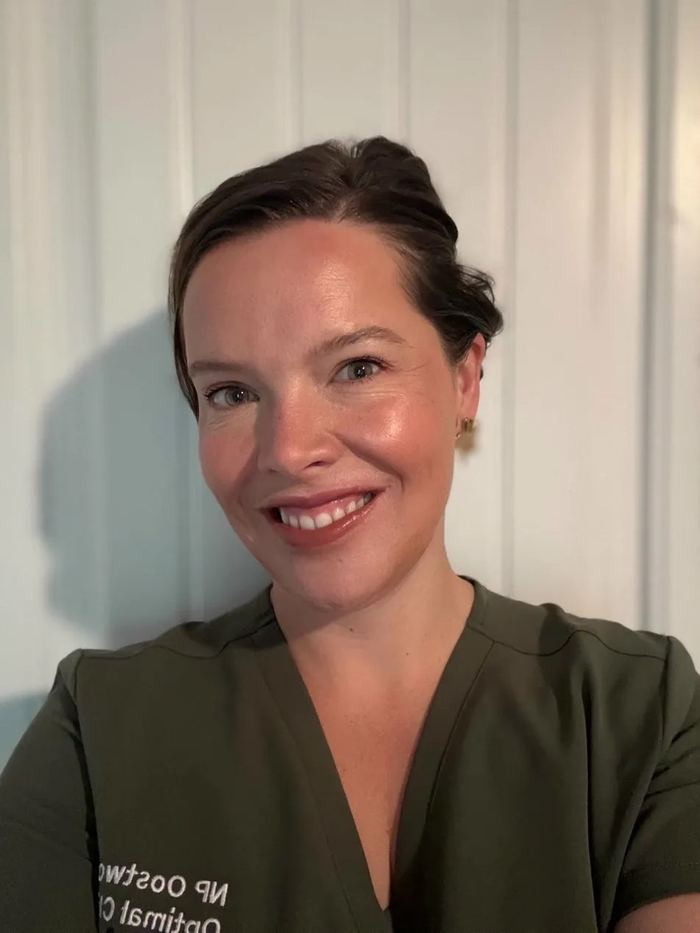
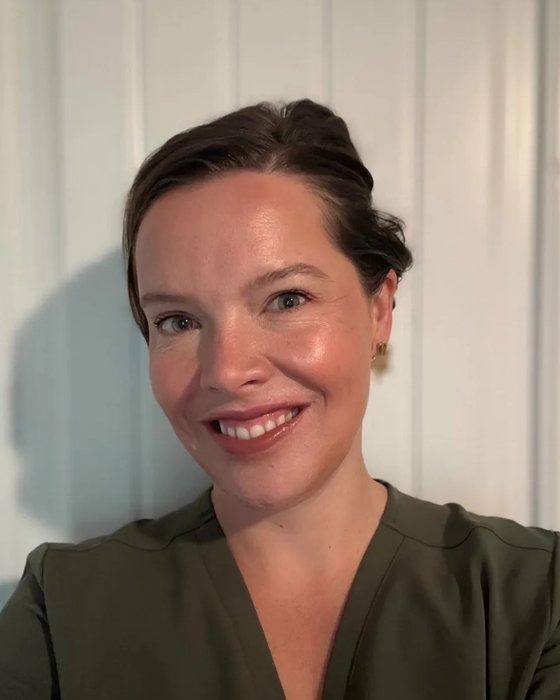
Team slide mirrored full-bleed redesign; timeline drawn as a time track
Design-panel synthesis (3 specs + judge) implemented:

- Team slide: two mirrored 820x450 cards, identical 360x450 (4:5) photos
  full-bleed to each card's outer edge, card height locked to the photo
  (zero dead space by construction), forest rule accent, check bullets.
  Chantelle's photo reframed per supplied crop; both crops now identical.
- Bloodwork timing: pill/card row replaced with a single semi-proportional
  time track (day 0 -> week 8): check node, shaded "sweet spot" window
  that scales open, clock node at week 2, gradient drain forest->amber,
  week ticks, $-node with soft pulse ring and continuation arrowhead,
  alternating labels with numerically verified clearances. Choreographed
  like the routing slide via the shared fl-* replay hooks; at rest fully
  drawn for print/export; reduced-motion covered.
- Benefits slide feature card now uses the real clinic waiting-area photo
  (replacing the stock interior).

Verified: no console errors, 18-page export with timeline at rest.

diff --git a/index.html b/index.html
@@ -743,7 +743,7 @@
   .s7 .benefits-grid { display: grid; grid-template-columns: 1.05fr 1fr 1fr; gap: 20px; margin-top: 26px; }
   .s7 .b-feature {
     grid-row: span 3;
-    background-image: url('assets/images/portrait-circle-1.png');
+    background-image: url('assets/images/clinic-waiting.jpg');
     background-size: cover; background-position: center;
     border-radius: 8px;
     position: relative; overflow: hidden;
@@ -1173,49 +1173,41 @@
     .shmap .hormone-map-svg path { animation-duration: 0.01s; animation-delay: 0s !important; }
     .shmap.in-view .legend .lg-row { animation-duration: 0.01s; animation-delay: 0s !important; }
     .shold.in-view .fl-seg, .shold.in-view .fl-node,
-    .shold.in-view .fl-tag, .shold.in-view .fl-refund { animation-duration: 0.01s !important; animation-delay: 0s !important; }
+    .shold.in-view .fl-tag, .shold.in-view .fl-refund,
+    .stime.in-view .fl-seg, .stime.in-view .fl-node,
+    .stime.in-view .fl-tag, .stime.in-view .fl-refund { animation-duration: 0.01s !important; animation-delay: 0s !important; }
   }
 
   /* ================= Slide — Bloodwork timing reminder =================
-     Gradient timeline: a single track running forest → amber, with marker
-     pills sitting on the line and refined cards beneath. */
+     Time track, day 0 -> week 8: sweet-spot window opens, the line drains
+     forest -> amber toward the fee. fl-* class names reused as replay
+     hooks; animations scoped here, gated on .in-view; at rest (print/
+     export) everything is fully drawn. */
   .stime .tl-wrap { margin-top: 24px; flex: 1; min-height: 0; display: flex; flex-direction: column; justify-content: center; }
-  .stime .tl-row { position: relative; display: grid; grid-template-columns: repeat(4, 1fr); gap: 32px; }
-  .stime .tl-line {
-    position: absolute; left: 12.5%; right: 12.5%; top: 17px; height: 3px;
-    border-radius: 2px;
-    background: linear-gradient(90deg, #2C4E25 0%, #6B8A4A 58%, #A66B1F 100%);
-  }
-  .stime .tl-step { display: flex; flex-direction: column; align-items: center; }
-  .stime .tl-pill {
-    position: relative; z-index: 1;
-    display: inline-flex; align-items: center; gap: 9px;
-    background: var(--cream-50); border: 1px solid var(--bone-300, #D9D2BD);
-    border-radius: 999px; padding: 8px 18px;
+  .stime .fl-info { position: relative; width: 1680px; height: 460px; }
+  .stime .fl-svg { position: absolute; inset: 0; width: 100%; height: 100%; display: block; }
+  .stime .fl-seg { fill: none; stroke-width: 3; stroke-linecap: round; }   /* no stroke here — attribute strokes (solid + gradient) must win */
+  .stime .fl-seg.s-d { stroke: #C9C2AE; stroke-width: 1.5; }
+  .stime .fl-node { transform-box: fill-box; transform-origin: center; }
+  .stime .fl-node.win { transform-origin: left center; }
+  .stime .fl-node.n-ring { opacity: 0; }
+
+  .stime .fl-tag { position: absolute; text-align: center; }
+  .stime .fl-tag .k {
     font-family: var(--font-sans); font-size: 13px; font-weight: 700;
-    letter-spacing: 0.16em; text-transform: uppercase; color: var(--forest-700);
-    box-shadow: 0 1px 0 rgba(28,49,24,0.04);
+    letter-spacing: 0.22em; text-transform: uppercase; color: var(--forest-500, #6B8A4A);
+    margin-bottom: 8px;
   }
-  .stime .tl-pill::before { content: ""; width: 8px; height: 8px; border-radius: 50%; background: var(--forest-700); }
-  .stime .tl-step.fee .tl-pill { color: #A66B1F; border-color: rgba(166,107,31,0.5); }
-  .stime .tl-step.fee .tl-pill::before { background: #A66B1F; }
-  .stime .tl-card {
-    margin-top: 30px; width: 100%;
-    background: var(--white); border: 1px solid var(--bone-300, #D9D2BD); border-radius: 14px;
-    padding: 32px 28px; flex: 1; text-align: center;
-    box-shadow: 0 2px 14px rgba(28,49,24,0.05);
+  .stime .fl-tag h4 {
+    font-family: var(--font-display); font-size: 27px; line-height: 1.05;
+    letter-spacing: -0.02em; color: var(--grey-800); margin-bottom: 8px;
   }
-  .stime .tl-card h4 {
-    font-family: var(--font-display); font-size: 31px; line-height: 1.05;
-    letter-spacing: -0.02em; color: var(--forest-700); margin-bottom: 12px;
-  }
-  .stime .tl-card p { font-family: var(--font-sans); font-size: 18.5px; line-height: 1.45; color: var(--grey-600); }
-  .stime .tl-step.fee .tl-card { background: var(--forest-700); border-color: var(--forest-700); }
-  .stime .tl-step.fee .tl-card h4 { color: var(--cream-50); }
-  .stime .tl-step.fee .tl-card p { color: rgba(255,252,247,0.84); }
+  .stime .fl-tag p { font-family: var(--font-sans); font-size: 16.5px; line-height: 1.4; color: var(--grey-500); }
+  .stime .fl-tag.fee .k { color: #A66B1F; }
+  .stime .fl-tag.fee h4 b { color: #A66B1F; font-weight: 400; }
 
   .stime .tl-note {
-    margin-top: 44px; text-align: center;
+    margin-top: 30px; text-align: center;
     display: flex; align-items: center; justify-content: center; gap: 14px; flex-wrap: wrap;
     font-family: var(--font-sans); font-size: 20px; line-height: 1.45; color: var(--grey-600);
   }
@@ -1226,36 +1218,72 @@
     white-space: nowrap;
   }
 
+  /* ── Choreography (reuses global fl-draw / fl-pop / rv-rise) ── */
+  @keyframes tl-window { from { transform: scaleX(0); } to { transform: scaleX(1); } }
+  @keyframes tl-fade-in { from { opacity: 0; } to { opacity: 1; } }
+  @keyframes tl-ring { from { opacity: 0.55; transform: scale(1); } to { opacity: 0; transform: scale(2.1); } }
+  .stime.in-view .fl-seg { stroke-dasharray: 100; stroke-dashoffset: 100; animation: fl-draw 0.55s ease both; }
+  .stime.in-view .fl-seg.s-a { animation-delay: 0.35s; }
+  .stime.in-view .fl-seg.s-b { animation-delay: 1.45s; animation-duration: 0.7s; }
+  .stime.in-view .fl-seg.s-c { animation-delay: 2.35s; animation-duration: 0.4s; }
+  .stime.in-view .fl-seg.s-d { animation-delay: 1.60s; animation-duration: 0.6s; }
+  .stime.in-view .fl-node { animation: fl-pop 0.4s cubic-bezier(.34,1.56,.64,1) both; }
+  .stime.in-view .fl-node.n-1 { animation-delay: 0.05s; }
+  .stime.in-view .fl-node.n-2 { animation-delay: 1.30s; }
+  .stime.in-view .fl-node.n-3 { animation-delay: 2.20s; }
+  .stime.in-view .fl-node.n-4 { animation-delay: 2.60s; }
+  .stime.in-view .fl-node.win   { animation: tl-window 0.7s var(--ease-standard) both 0.55s; }
+  .stime.in-view .fl-node.ticks { animation: tl-fade-in 0.5s ease both 0.90s; }
+  .stime.in-view .fl-node.n-ring { animation: tl-ring 0.9s ease-out both 2.55s; }
+  .stime.in-view .fl-tag, .stime.in-view .fl-refund { animation: rv-rise 0.55s var(--ease-standard) both; }
+  .stime.in-view .fl-tag.t-1 { animation-delay: 0.15s; }
+  .stime.in-view .fl-tag.t-2 { animation-delay: 0.85s; }
+  .stime.in-view .fl-tag.t-3 { animation-delay: 1.70s; }
+  .stime.in-view .fl-tag.t-4 { animation-delay: 2.30s; }
+  .stime.in-view .fl-refund  { animation-delay: 2.65s; }
+
   /* ================= Slide — Meet your care team =================
-     Photos are shown complete (no cropping) at a shared width; the card
-     is designed around each image's natural aspect ratio. */
-  .steam .team-row { display: grid; grid-template-columns: 1fr 1fr; gap: 32px; margin-top: 48px; flex: 1; min-height: 0; align-items: stretch; }
-  .steam .team-card {
-    background: var(--white); border: 1px solid var(--bone-300, #D9D2BD); border-radius: 14px;
-    padding: 40px; display: flex; gap: 40px; align-items: center;
-    box-shadow: 0 1px 0 rgba(28,49,24,0.04);
+     Mirrored photo-anchored cards: image full-bleed to the card's outer
+     edge (identical 360x450 4:5 crop for both people), card height locked
+     to the photo, text vertically centered, row centered in the frame. */
+  .steam .team-row {
+    flex: 1; min-height: 0;
+    display: grid; grid-template-columns: 820px 820px; gap: 40px;
+    justify-content: center; align-content: center; margin-top: 0;
   }
-  .steam .team-photo { flex-shrink: 0; }
-  .steam .team-photo img { width: 340px; height: auto; display: block; border-radius: 12px; }
-  .steam .team-body { display: flex; flex-direction: column; min-width: 0; }
+  .steam .team-card {
+    width: 820px; height: 450px;
+    display: flex; align-items: stretch;
+    background: var(--white); border: 1px solid var(--bone-200, #E8E1CC);
+    border-radius: 16px; overflow: hidden;
+    box-shadow: 0 2px 14px rgba(28,49,24,0.05);
+  }
+  .steam .team-card.flip { flex-direction: row-reverse; }
+  .steam .team-photo { flex-shrink: 0; width: 360px; }
+  .steam .team-photo img { width: 360px; height: 450px; object-fit: cover; object-position: center top; display: block; }
+  .steam .team-body {
+    flex: 1; min-width: 0; padding: 0 46px;
+    display: flex; flex-direction: column; justify-content: center;
+  }
   .steam .team-name {
-    font-family: var(--font-display); font-size: 37px; line-height: 1.05;
-    letter-spacing: -0.02em; color: var(--grey-800); margin-bottom: 10px;
+    font-family: var(--font-display); font-size: 36px; line-height: 1.05;
+    letter-spacing: -0.02em; color: var(--grey-800); margin-bottom: 8px;
   }
   .steam .team-role {
-    font-family: var(--font-sans); font-size: 14px; font-weight: 700;
+    font-family: var(--font-sans); font-size: 13px; font-weight: 700;
     letter-spacing: 0.2em; text-transform: uppercase; color: var(--forest-500, #6B8A4A);
-    margin-bottom: 22px;
   }
-  .steam .team-points { display: flex; flex-direction: column; gap: 14px; }
+  .steam .team-rule { width: 40px; height: 2px; border-radius: 1px; background: var(--forest-500, #6B8A4A); margin: 20px 0 22px; }
+  .steam .team-points { display: flex; flex-direction: column; gap: 13px; }
   .steam .team-points li {
-    font-family: var(--font-sans); font-size: 19px; line-height: 1.35; color: var(--grey-600);
-    padding-left: 30px; position: relative;
+    font-family: var(--font-sans); font-size: 18px; line-height: 1.4; color: var(--grey-600);
+    padding-left: 28px; position: relative;
   }
   .steam .team-points li::before {
-    content: ""; position: absolute; left: 0; top: 9px;
-    width: 14px; height: 8px;
-    border-left: 2px solid var(--forest-500, #6B8A4A); border-bottom: 2px solid var(--forest-500, #6B8A4A);
+    content: ""; position: absolute; left: 0; top: 8px;
+    width: 13px; height: 7px;
+    border-left: 2px solid var(--forest-500, #6B8A4A);
+    border-bottom: 2px solid var(--forest-500, #6B8A4A);
     transform: rotate(-45deg);
   }
 
@@ -2179,23 +2207,26 @@
           <div class="team-body">
             <div class="team-name">Chantelle Oostwoud</div>
             <div class="team-role">MN, PHC-NP · Our Clinician</div>
+            <div class="team-rule" aria-hidden="true"></div>
             <ul class="team-points">
               <li>Your dedicated clinician for this program</li>
               <li>Master of Nursing, Athabasca University</li>
-              <li>A decade across emergency, critical care &amp; remote health</li>
+              <li>A decade in emergency, critical &amp; remote care</li>
               <li>Small panel — more time, more answers</li>
             </ul>
           </div>
         </div>
-        <div class="team-card">
+        <div class="team-card flip">
           <div class="team-photo"><img src="assets/images/team-cheryl.jpg" alt="Cheryl Cairns, Care Coordinator"></div>
           <div class="team-body">
             <div class="team-name">Cheryl Cairns</div>
             <div class="team-role">Care Coordinator</div>
+            <div class="team-rule" aria-hidden="true"></div>
             <ul class="team-points">
               <li>The first person most members meet</li>
               <li>Onboarding &amp; care navigation</li>
-              <li>Supports hormone health programming</li>
+              <li>Books your labs, consults &amp; follow-ups</li>
+              <li>Your first call for scheduling &amp; results</li>
             </ul>
           </div>
         </div>
@@ -2762,38 +2793,83 @@
       </div>
 
       <div class="tl-wrap">
-        <div class="tl-row">
-          <div class="tl-line" aria-hidden="true"></div>
-          <div class="tl-step">
-            <div class="tl-pill">Day 0 · Registration</div>
-            <div class="tl-card">
-              <h4>You're enrolled</h4>
-              <p>Your lab requisition is in hand — LifeLabs or Dynacare, whenever suits your week.</p>
-            </div>
+        <div class="fl-info">
+          <svg class="fl-svg" viewBox="0 0 1680 460" xmlns="http://www.w3.org/2000/svg" role="img"
+               aria-label="Timeline: register day 0; complete bloodwork in the first two weeks for priority scheduling; after two weeks you are still seen but same-week scheduling is not guaranteed; at week 8 a $100 administrative fee applies.">
+            <defs>
+              <linearGradient id="tl-fade" gradientUnits="userSpaceOnUse" x1="730" y1="0" x2="1410" y2="0">
+                <stop offset="0" stop-color="#6B8A4A"/><stop offset="1" stop-color="#A66B1F"/>
+              </linearGradient>
+            </defs>
+
+            <!-- Sweet-spot window (range: weeks 0-2) -->
+            <g class="fl-node win">
+              <rect x="170" y="190" width="540" height="120" rx="12"
+                    fill="rgba(135,164,130,0.10)" stroke="rgba(135,164,130,0.35)"/>
+              <text x="440" y="216" text-anchor="middle" font-family="Public Sans, Inter, system-ui, sans-serif"
+                    font-size="12" font-weight="700" letter-spacing="2.6" fill="#87A482">SWEET SPOT</text>
+            </g>
+
+            <!-- Track (segments stop 20px short of node centers) -->
+            <path class="fl-seg s-a" pathLength="100" d="M 190 250 H 690" stroke="#2C4E25"/>
+            <path class="fl-seg s-b" pathLength="100" d="M 730 250 H 1410" stroke="url(#tl-fade)"/>
+            <path class="fl-seg s-c" pathLength="100" d="M 1452 250 H 1548" stroke="#A66B1F" stroke-opacity="0.4"/>
+            <!-- 2-8 range bracket -->
+            <path class="fl-seg s-d" pathLength="100" d="M 730 218 V 210 H 1410 V 218"/>
+
+            <!-- Week ticks (semi-proportional scale; wk-2 mark is the node itself) -->
+            <g class="fl-node ticks">
+              <g fill="none" stroke="#D9D2BD" stroke-width="1.5">
+                <path d="M 440 258 V 268 M 830 258 V 268 M 950 258 V 268 M 1070 258 V 268 M 1190 258 V 268 M 1310 258 V 268"/>
+              </g>
+              <g font-family="Public Sans, Inter, system-ui, sans-serif" font-size="11" fill="#B9B3A6" text-anchor="middle">
+                <text x="440" y="286">WK 1</text><text x="830" y="286">WK 3</text><text x="950" y="286">WK 4</text>
+                <text x="1070" y="286">WK 5</text><text x="1190" y="286">WK 6</text><text x="1310" y="286">WK 7</text>
+              </g>
+            </g>
+
+            <!-- Nodes -->
+            <g class="fl-node n-1">
+              <circle cx="170" cy="250" r="17" fill="#2C4E25"/>
+              <path d="M 163 250 l 5 5 l 9 -10" fill="none" stroke="#FFFCF7" stroke-width="2.5" stroke-linecap="round" stroke-linejoin="round"/>
+            </g>
+            <g class="fl-node n-2">
+              <circle cx="710" cy="250" r="17" fill="#FFFFFF" stroke="#6B8A4A" stroke-width="2.5"/>
+              <path d="M 710 241 V 250 L 717 254" fill="none" stroke="#6B8A4A" stroke-width="2.5" stroke-linecap="round" stroke-linejoin="round"/>
+            </g>
+            <circle class="fl-node n-ring" cx="1430" cy="250" r="17" fill="none" stroke="#A66B1F" stroke-width="2"/>
+            <g class="fl-node n-3">
+              <circle cx="1430" cy="250" r="17" fill="#FFFFFF" stroke="#A66B1F" stroke-width="2.5"/>
+              <text x="1430" y="256" text-anchor="middle" font-family="Public Sans, Inter, system-ui, sans-serif"
+                    font-size="16" font-weight="700" fill="#A66B1F">$</text>
+            </g>
+            <path class="fl-node n-4" d="M 1548 244 L 1560 250 L 1548 256 Z" fill="#A66B1F" fill-opacity="0.55"/>
+          </svg>
+
+          <!-- Labels: above / below / above / below -->
+          <div class="fl-tag t-1" style="left: 30px; top: 52px; width: 280px;">
+            <div class="k">Day 0 · Registration</div>
+            <h4>You're enrolled</h4>
+            <p>Requisition in hand — LifeLabs or Dynacare, any day that suits.</p>
           </div>
-          <div class="tl-step">
-            <div class="tl-pill">Weeks 1–2 · Sweet spot</div>
-            <div class="tl-card">
-              <h4>Priority scheduling</h4>
-              <p>Complete your bloodwork in this window and we can prioritize your NP consultation — typically booked within approximately one week of your results arriving.</p>
-            </div>
+          <div class="fl-tag t-2" style="left: 260px; top: 330px; width: 360px;">
+            <div class="k">Weeks 1–2 · Priority</div>
+            <h4>First in line</h4>
+            <p>Labs done in this window mean your NP consult is booked within about a week of your results arriving.</p>
           </div>
-          <div class="tl-step">
-            <div class="tl-pill">After 2 weeks</div>
-            <div class="tl-card">
-              <h4>We'll still see you</h4>
-              <p>Absolutely no problem — though we can no longer guarantee same-week scheduling once your results come in.</p>
-            </div>
+          <div class="fl-tag t-3" style="left: 900px; top: 46px; width: 340px;">
+            <div class="k">Weeks 2–8</div>
+            <h4>We'll still see you</h4>
+            <p>No problem at all — though same-week scheduling is no longer guaranteed once results arrive.</p>
           </div>
-          <div class="tl-step fee">
-            <div class="tl-pill">Week 8</div>
-            <div class="tl-card">
-              <h4>$100 fee applies</h4>
-              <p>If bloodwork isn't completed within 8 weeks of registration, a $100 administrative fee is added to re-coordinate your program.</p>
-            </div>
+          <div class="fl-tag fee t-4" style="left: 1260px; top: 330px; width: 340px;">
+            <div class="k">Week 8</div>
+            <h4>A <b>$100 admin fee</b> applies</h4>
+            <p>If bloodwork isn't complete by week 8, the fee covers re-coordinating your program.</p>
           </div>
         </div>
-        <p class="tl-note">Life gets busy — we understand. If you're running behind, just call us and we'll help you stay on track. <span class="tl-tel">(437) 370-0291</span></p>
+
+        <p class="tl-note fl-refund">Life gets busy — we understand. Running behind? Call us and we'll keep you on track. <span class="tl-tel">(437) 370-0291</span></p>
       </div>
     </div>
 
@@ -2817,7 +2893,7 @@
     // a block with a handful of children (cards, columns) staggers per child.
     document.querySelectorAll('deck-stage > section').forEach((slide) => {
       let tops;
-      if (slide.classList.contains('shmap') || slide.classList.contains('shold')) {
+      if (slide.classList.contains('shmap') || slide.classList.contains('shold') || slide.classList.contains('stime')) {
         tops = [slide.querySelector('.title-block')];
       } else {
         const root = slide.querySelector('.slide-frame') || slide;
